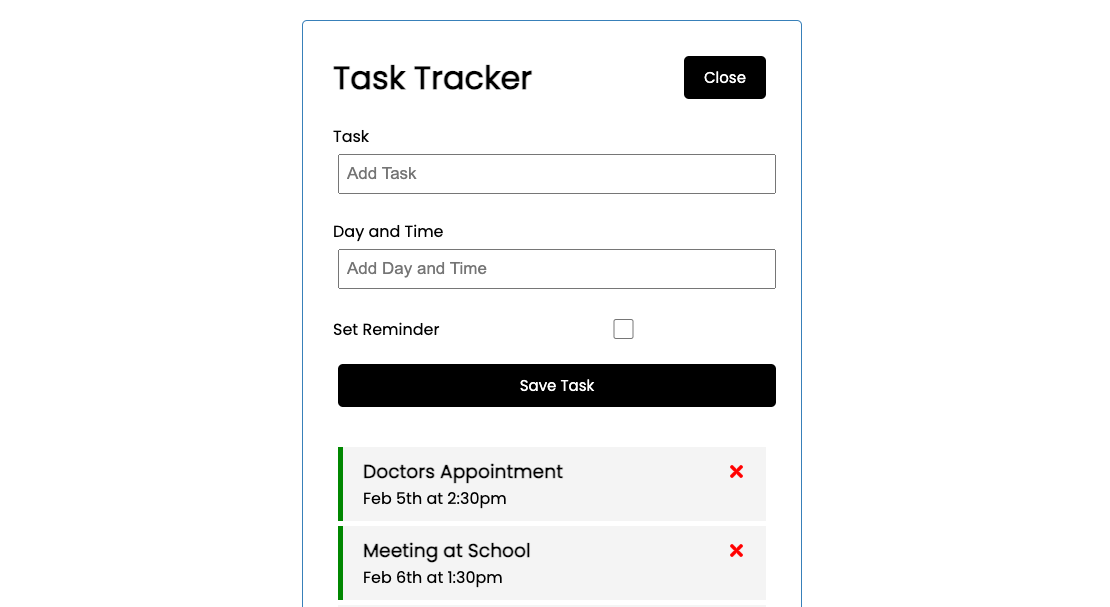
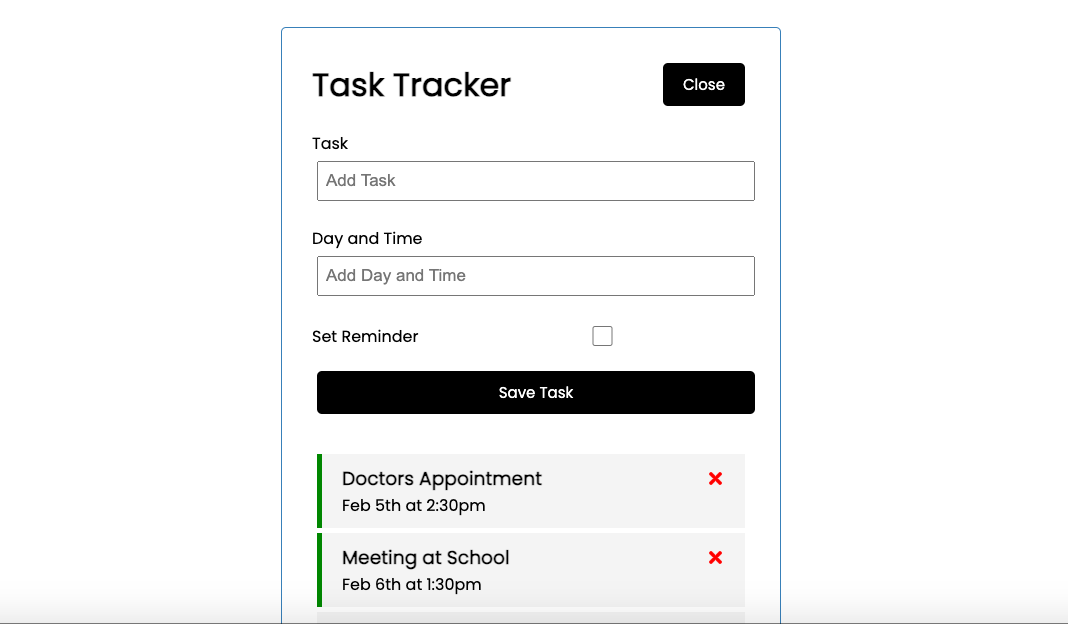
random

diff --git a/README.md b/README.md
@@ -1,4 +1,4 @@
-<<<<<<< HEAD
+
 # Frontend Developer Portfolio
 
 A React + TypeScript portfolio starter built with Vite, Tailwind CSS, and Material UI.
@@ -14,6 +14,3 @@ A React + TypeScript portfolio starter built with Vite, Tailwind CSS, and Materi
 
 - Update `src/App.tsx` with your own project details, experience, and contact info.
 - Change the email address in the contact section to your own.
-=======
-# Portfolio
->>>>>>> 815c2f77b65c963aa54cee1961b0464c56861e85